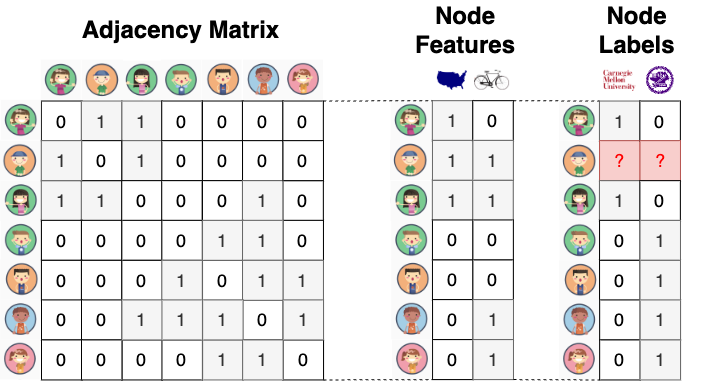
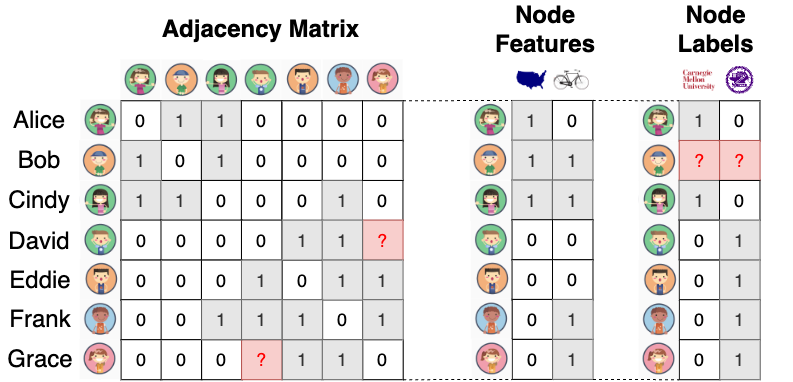
Update

diff --git a/website/content/2024/network-usable-information.md b/website/content/2024/network-usable-information.md
@@ -27,7 +27,9 @@ committee = [
 ]
 +++
 
-Given a graph with node features, how can we tell whether a graph neural network (GNN) can perform well on graph tasks or not? How can we know what information in the graph (if any) is usable to solve the tasks, namely, link prediction and node classification? GNNs are commonly adopted on graph tasks to generate good embeddings to perform on different graph tasks. However, an attributed graph, consisting of the graph structure and the node features, may have no network effects (i.e., useless graph structure), or useless node features. In these cases, training a GNN will be a waste of time and resources, especially for large cloud service providers like AWS, whose customers would like to perform the tasks with restricted budgets in a short time.
+Given a graph with node features, how can we tell whether a message-passing method can perform well on graph tasks or not? How can we know what information in the graph (if any) is usable to solve the tasks, namely, link prediction and node classification? 
+Graph Neural Networks (GNNs) are frequently used for graph tasks by generating low-dimensional node embeddings.
+However, an attributed graph, consisting of the graph structure and the node features, may have no network effects (i.e., useless graph structure), or useless node features. In these cases, training a GNN will be a waste of time and resources, especially for large cloud service providers like AWS, whose customers would like to perform the tasks with restricted budgets in a short time. That is to say, we want a measurement of how informative the graph structure and node features are for the task at hand, which we call network usable information (NUI).
 
 In this blog post, we introduce how to measure the information in the graph, and to exploit it for solving the graph tasks. This blog post is based on our research paper, “NetInfoF Framework: Measuring and Exploiting Network Usable Information” [1], presented at ICLR 2024.
 
@@ -40,82 +42,104 @@ Figure 1. An example of an attributed social network graph, where the nodes deno
 </figcaption>
 </figure>
 
-A graph is a structure that includes nodes and edges, which are the connections between nodes. An attributed graph indicates that each node in the graph has a set of features. For example, in a social network, the nodes denote the users, and the edges denote whether two users are friends. The node attributes/features of users are whether they are located in the US and whether they like to bike. The node labels of the users with two classes, shown by blue and red, indicate which college they go to.
+A graph is a data structure that includes nodes, and edges, representing the connections between nodes.
+An attributed graph indicates that each node in the graph has a set of features.
+For example, in Figure 1, in a social network, the nodes (circles with school icons) denote the users, and the edges (black lines connecting circles) denote whether two users are friends.
+The node IDs are represented by the thumbnail person images and the text names.
+The node attributes/features of users (2 \\( \times \\) 2 tables) are whether they are located in the US and whether they like to bike. 
+The node labels of users, classified into two categories represented by blue and red colors, signify their respective colleges, CMU or NCTU.
+In fact, node labels are similar to node features, but they are the ones with missing values and we are interested in predicting them.
 
 <figure>
-<img src="./figure2.png" alt="mathmatical presentation of graph" width="400"/>
+<img src="./figure2.png" alt="mathematical representation of graph" width="500"/>
 <figcaption>
-Figure 2. The mathmatical presentation of the attributed graph, including an adjacency matrix, node features, and node labels. The red question mark denotes that the label is unknown.
+Figure 2. The mathematical representation of the attributed graph, including an adjacency matrix, node features, and node labels. The red question mark denotes unknown.
 </figcaption>
 </figure>
 
-The graph structure can be mathematically presented by an adjacency matrix (without self-loop), where 1 denotes that there is an edge between two nodes, and 0 denotes no edge. The node features are also presented by a matrix, where each column of features can be either binary or continuous. The node labels are presented by a matrix with one-hot encoding of the class label.
+The graph structure can be represented by an adjacency matrix, where 1 denotes the presence of an edge between two nodes, and 0 denotes no edge. 
+The node features are also presented by a matrix, where each feature can be either binary or continuous. 
+The node labels are presented by a matrix with one-hot encoding of the class label.
 
 ## What are the common graph tasks?
 
 We consider the two most common graph tasks:
-- **Link Prediction**
-    - *Goal:* Predict the existence of the edges in the graph.
-    - *Example:* Given a social network with features, can we guess whether David and Grace could become friends, i.e., the existence of the red dash line in Figure 1? 
 - **Node Classification**
     - *Goal:* Predict the classes of the unlabeled nodes, while some labeled nodes are given.
-    - *Example:* Given a social network with features, can we guess which college Bob goes to, i.e., the label of the grey node in Figure 1?
+    - *Example:* Given a social network with features, can we guess which college Bob goes to, i.e., the label of the gray node in Figure 1?
+- **Link Prediction**
+    - *Goal:* Predict the potential additional edges in the graph.
+    - *Example:* Given a social network with features, can we guess whether David and Grace could become friends, i.e., the existence of the red dash line in Figure 1? 
 
 ## What are message-passing methods?
+
+<!-- | U<sub>[n×r]</sub> | Left singular vectors of adjacency matrix | -->
+<!-- | r | Rank for matrix decomposition | -->
 
 <figure>
 <img src="./figure3.png" alt="node embedding" width="400"/>
 <figcaption>
-Figure 3. Illustration of how the nodes in a given graph projected into low-dimensional embedding space. The nodes that are more similar in the graph, are closer in the embedding space.
+Figure 3. Illustration of how the nodes in a given graph projected into low-dimensional embedding space. The nodes that are more similar in the graph are closer in the embedding space.
 </figcaption>
 </figure>
 
-Message-passing methods utilize the graph structure to propagate the information from the neighbors of a node to itself. Known as sum-product message passing, belief propagation methods directly perform inference on the graph through several propagation iterations, requiring neither parameters nor training. To properly handle the interaction between node classes, while [2] assumes that the compatibility matrix is given by the domain expert, [3] estimates it with the given graph data. Although belief propagation methods are fast and effective, they are mainly proposed to solve node classification problems, and usually do not consider node features.
+Message-passing methods utilize the graph structure to propagate the information from the neighbors of a node to itself. Known as sum-product message-passing, belief propagation methods directly perform inference on the graph through several propagation iterations, requiring neither parameters nor training. To properly handle the interaction between node classes, [2] assumes that a c×c compatibility matrix is given by the domain expert, while [3] estimates it with the given graph data. Although belief propagation methods are fast and effective, they are mainly proposed to solve node classification problems, and usually do not consider node features.
 
-Another thread of message-passing methods, Graph Neural Networks (GNNs), are a class of deep learning models, commonly used to generate low-dimensional representations of nodes for performing graph tasks. As shown in the figure, the nodes that are better connected in the graph, are expected to have closer embeddings in the low-dimensional space. The function of a two-layer Graph Convolutional Network (GCN) [4] can be written as:
-\\[ A\sigma(AXW_{1})W_{2}, \\]
-where A is the normalized adjacency matrix with self-loop, X is the node features, W<sub>i</sub> is the learnable matrix for the i-th layer, and &sigma; is the non-linear activation function.
+Another thread of message-passing methods, Graph Neural Networks (GNNs), are a class of deep learning models. They are commonly used to generate low-dimensional representations of nodes for performing graph tasks. As shown in Figure 3, the nodes that are better connected in the graph, are expected to have closer embeddings in the low-dimensional space. The function of a two-layer Graph Convolutional Network (GCN) [4] can be written as:
+\\[ \hat{Y} = A\sigma(AXW_{1})W_{2}, \\]
+where *A* is the normalized adjacency matrix with self-loop, *X* is the node features, *W<sub>i</sub>* is the learnable matrix for the i-th layer, and *&sigma;* is the non-linear activation function, typically a sigmoid or a ReLU.
 By removing &sigma; from the above equation, it reduces to:
-\\[ A^{2}XW, \\]
-which is a linear model with a node embedding A<sup>2</sup>X that can be pre-computed. This particular model is Simple Graph Convolution (SGC) [5], which is the first linear GNN model. One of the many advantages of linear GNNs is that their node embeddings are available prior to model training. A comprehensive study on linear GNNs can be found in [6].
+\\[ \hat{Y} = A^{2}XW, \\]
+which is a linear model with a node embedding *A<sup>2</sup>X* that can be precomputed. This particular model is Simple Graph Convolution (SGC) [5], which is the first linear GNN model. One of the many advantages of linear GNNs is that their node embeddings are available prior to model training. A comprehensive study on linear GNNs can be found in [6].
 
-## *Main Question:* Would a message-passing method work in a given setting?
+| Symbol | Definition |
+| -------- | -------- |
+| A<sub>[n×n]</sub> | Adjacency matrix |
+| X<sub>[n×f]</sub> | Node feature matrix |
+| W<sub>[f×c]</sub> | Learnable parameter matrix |
+| Y<sub>[n×c]</sub> | Node label matrix |
+| n | Number of nodes |
+| f | Number of features |
+| c | Number of classes |
+
+## *Measuring NUI:* Would a message-passing method work in a given setting?
 
 <figure>
 <img src="./figure4.png" alt="scenarios" width="400"/>
 <figcaption>
-Figure 4. Scenarios that the message-passing method may not work well. Left: The graph structure exhibits no network effects. Right: The node features are not correlated with the node labels.
+Figure 4. Scenarios in which the message-passing method may not work well. (a): The graph structure exhibits no network effects. (b): Node features are not correlated with node labels.
 </figcaption>
 </figure>
 
-Given an attributed graph, the message-passing method may not work well in the following scenarios:
-1. **No network effects:** means that the graph structure is not useful to solve the graph task. In Figure 4 left, since every node connects to one blue and one red node, it is hard to figure out the preference of the color to which a node will connect.
-2. **Useless node features:** means that the node features are not useful to solve the graph task. In Figure 4 right, we can see that whether a user likes to bike is not correlated with the user's university.
-3. Scenario 1 and 2 occur at the same time.
+Given an attributed graph, how can we measure the network usable information (NUI)? The message-passing method may not work well in the following scenarios:
+1. **No network effects:** means that the graph structure is not useful to solve the graph task. In Figure 4(a), since every node uniformly connects to one blue and one red node, it is hard to figure out the preference of the color to which a node will connect.
+2. **Useless node features:** means that the node features are not useful to solve the graph task. In Figure 4(b), we can see that whether a user likes to bike is not correlated with the user's university.
+3. Scenarios 1 and 2 occur at the same time.
 
 In these cases, a message-passing method is likely to fail to infer the unknown node label, i.e., Bob’s college.
 
 <figure>
-<img src="./figure5.png" alt="structural and propagation embedding" width="800"/>
+<img src="./figure5.png" alt="structural and neighbors' feature embedding" width="800"/>
 <figcaption>
-Figure 5. Illustration of structural embedding (left) and propagation embedding (right). Left: SVD is conducted on the adjacency matrix to extract structural embedding. Right: Messages passed from a node's neighbors are aggregated to generate its node embedding.
+Figure 5. Illustration of structural embedding (left) and neighbors' feature embedding (right). (a): SVD is conducted on the adjacency matrix to extract structural embedding. (b): Messages passed from a node's neighbors are aggregated to generate its node embedding.
 </figcaption>
 </figure>
 
-We focus on analyzing whether a given GNN will perform well in a given setting. A straightforward way is to analyze its node embeddings, but they are only available after training, which is expensive and time-consuming. For this reason, we propose to analyze the derived node embeddings in linear GNNs. 
+We focus on analyzing whether a given GNN will perform well in a given setting. A straightforward way is to analyze its node embedding, but they are only available after training, which is expensive and time-consuming. For this reason, we propose to analyze the derived node embedding in linear GNNs. 
 
-More specifically, we derive three types of node embeddings that can comprehensively represent the information of the given graph, namely:
-1. **Structural embedding:** for the information of the graph structure. As shown in Figure 5 left, It is extracted by decomposing the adjacency matrix with singular value decomposition (SVD). This is useful when the node features are not useful to solve the graph task.
-2. **Feature embedding:** for the information of the node features. It is the original node feature after dimensional reduction. This is useful when there are no network effects, i.e. the graph structure is not useful to solve the graph task.
-3. **Propagation embedding:** for the information of the features aggregated from the neighbors. As shown in Figure 5 right, the messages are passed and aggregated from the neighbors for two steps. It leads to better performance by leveraging the information from the neighbors. This is useful when both the graph structure and the node features are useful to solve the graph task.
+More specifically, we derive three types of node embedding that can comprehensively represent the information of the given graph, namely:
+1. **Structural embedding (U):** for the information of the graph structure. It is extracted by decomposing the adjacency matrix with singular value decomposition (SVD). Intuitively, the left singular vectors U give the information of the node community. For example, in Figure 5(a), U identifies that the first three users belong to the blue community, while the last four belong to the red community. This is useful when the node features are not useful to solve the graph task.
+2. **Feature embedding (F):** for the information of the node features. It consists of the original node features after dimensional reduction. This is useful when there are no network effects, i.e. the graph structure is not useful to solve the graph task.
+3. **Neighbors' feature embedding (S):** for the information of the features aggregated from the neighbors. As shown in Figure 5(b), the messages are passed and aggregated from the neighbors for two steps. The intuition is that, in addition to the information from the user, the user's neighbors also provide useful information to the task. Leveraging their information leads to better performance on the graph task. This is useful when both the graph structure and the node features are useful to solve the graph task.
 
-Once we have the embeddings that can represent the information of the graphs, we propose NetInfoF_Score, and link the metrics of graph information and task performance with the following proposed theorem:
+Once we have the embedding that can represent the information of the nodes of the graph, we propose NetInfoF_Score, and link the metrics of graph information and task performance with the following proposed theorem:
 
 <figure>
 <img src="./eqn1.png" alt="Definition and theorem" width="800"/>
 </figure>
 
-This theorem provides an advantage to NetInfoF_Score by giving it an intuitive interpretation, which is the lower-bound of the accuracy. When there is little usable information to the task, the value of NetInfoF_Score is close to random guessing.
+The intuition behind this theorem is that the conditional entropy of Y (e.g. labels) given X (e.g. “like biking”), is a strong indicator of how good of a predictor X is, to guess the target Y.
+It also provides an advantage to NetInfoF_Score by giving it an intuitive interpretation, which is the lower-bound of the accuracy. When there is little usable information for the task, the value of NetInfoF_Score is close to random guessing.
 
 <figure>
 <img src="./figure6.png" alt="Emperical study" width="300"/>
@@ -126,18 +150,18 @@ Figure 6. Our theorem holds, where NetInfoF_Score is always less than or equal t
 
 In Figure 6, each point represents the accuracy and NetInfoF_Score by solving a task with one type of node embedding. We find that NetInfoF_Score lower-bounds the accuracy of the given graph task, as expected. If an embedding has no usable information to solve the given task, NetInfoF_Score gives a score close to random guessing (see lower left corner in Figure 6).
 
-## How to solve graph tasks?
+## *Exploiting NUI:* How to solve graph tasks?
 
 In this blog, we focus on explaining how to solve node classification. How to solve link prediction is more complicated, and the details can be found in [1].
 
 To solve node classification, we concatenate different types of embedding, and the input of the classifier is as follows:
 \\[ U || F || S , \\]
-where U is the structural embedding, F is the feature embedding, and S is the propagation embedding. Among all the choices, we use Logistic Regression as both the link predictor and the node classifier, as it is fast and interpretable.
+where || is concatenation, U is the structural embedding, F is the feature embedding, and S is the neighbors' feature embedding. Among all the choices, we use Logistic Regression as both the link predictor and the node classifier, as it is fast and interpretable.
 
 ## How well does our proposed method perform?
 
 <figure>
-<img src="./table1.png" alt="Node classification" width="800"/>
+<img src="./table1.png" alt="Node classification" width="1000"/>
 </figure>
 
 As shown in Table 1, applied on 12 real-world graphs, NetInfoF outperforms GNN baselines in 7 out of 12 datasets on node classification.
